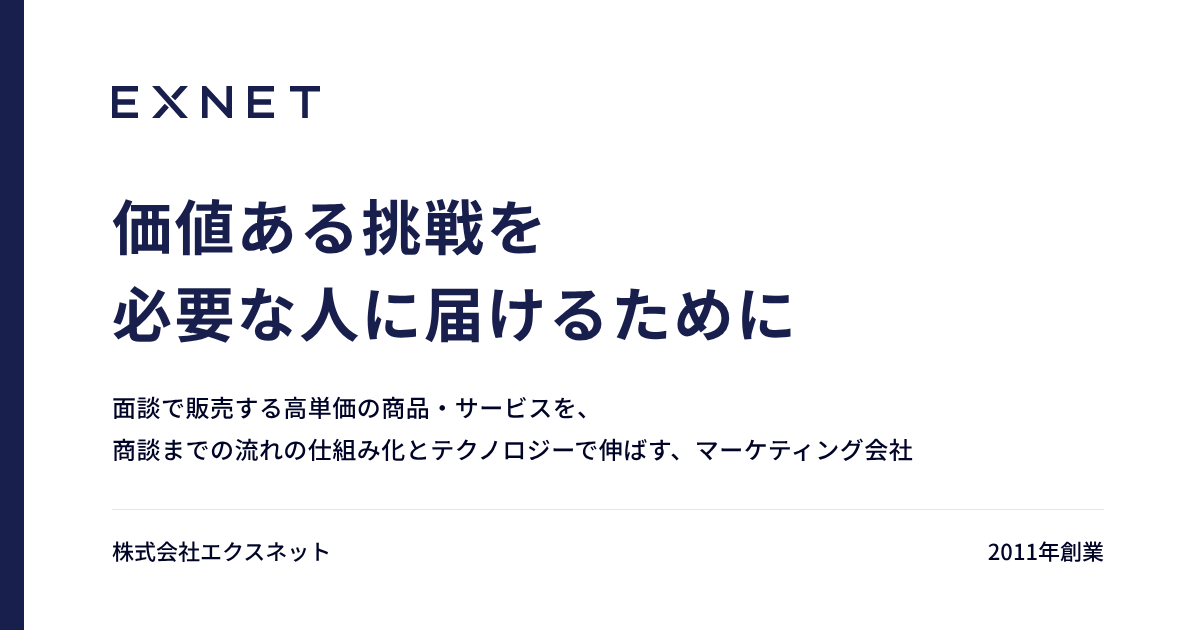
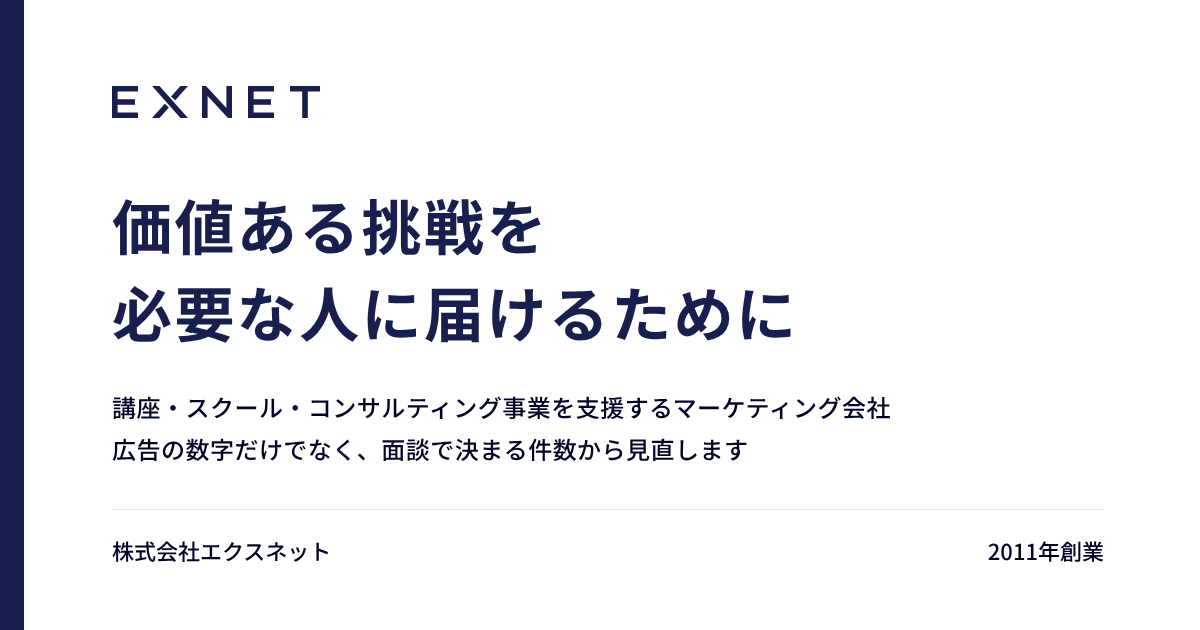
共有画像（OGP）の説明を新しい名乗りにそろえる (#14)
「仕組み化とテクノロジーで伸ばす」を、「講座・スクール・コンサルティング事業を支援するマーケティング会社／広告の数字だけでなく、面談で決まる件数から見直します」に差し替え。

Claude-Session: https://claude.ai/code/session_01VW73FFwsAeC8DLDfYvYymd

Changed region(s): [[0.0925, 0.6937, 0.7708, 0.754], [0.0925, 0.6333, 0.74, 0.6635]]

diff --git a/tools/ogp/ogp.html b/tools/ogp/ogp.html
@@ -11,5 +11,5 @@ p{margin:32px 0 0;font-size:24px;line-height:1.75;font-weight:500;letter-spacing
 .foot{margin-top:auto;display:flex;justify-content:space-between;font-size:22px;font-weight:500;color:#000426;border-top:1px solid #e6e6e6;padding-top:24px}
 </style><div class="bar"></div><div class="in"><svg class="logo" viewBox="0 0 104 22" width="208" height="44" role="img" aria-label="EXNET"><defs><clipPath id="lg-h"><rect x="0" y="3" width="104" height="16"/></clipPath></defs><g fill="none" stroke="currentColor" stroke-width="2.8" clip-path="url(#lg-h)"><path d="M13 4.4H1.4V17.6H13M1.4 11H11.5"/><path d="M21 2L37 20"/><path d="M37 2L30.59 9.21M27.41 12.79L21 20"/><path d="M46.4 20V4.4L58.6 17.6V2"/><path d="M81 4.4H69.4V17.6H81M69.4 11H79.5"/><path d="M89 4.4H104M96.5 4.4V20"/></g></svg>
 <h1>価値ある挑戦を<br>必要な人に届けるために</h1>
-<p>面談で販売する高単価の商品・サービスを、<br>商談までの流れの仕組み化とテクノロジーで伸ばす、マーケティング会社</p>
+<p>講座・スクール・コンサルティング事業を支援するマーケティング会社<br>広告の数字だけでなく、面談で決まる件数から見直します</p>
 <div class="foot"><span>株式会社エクスネット</span><span>2011年創業</span></div></div>
